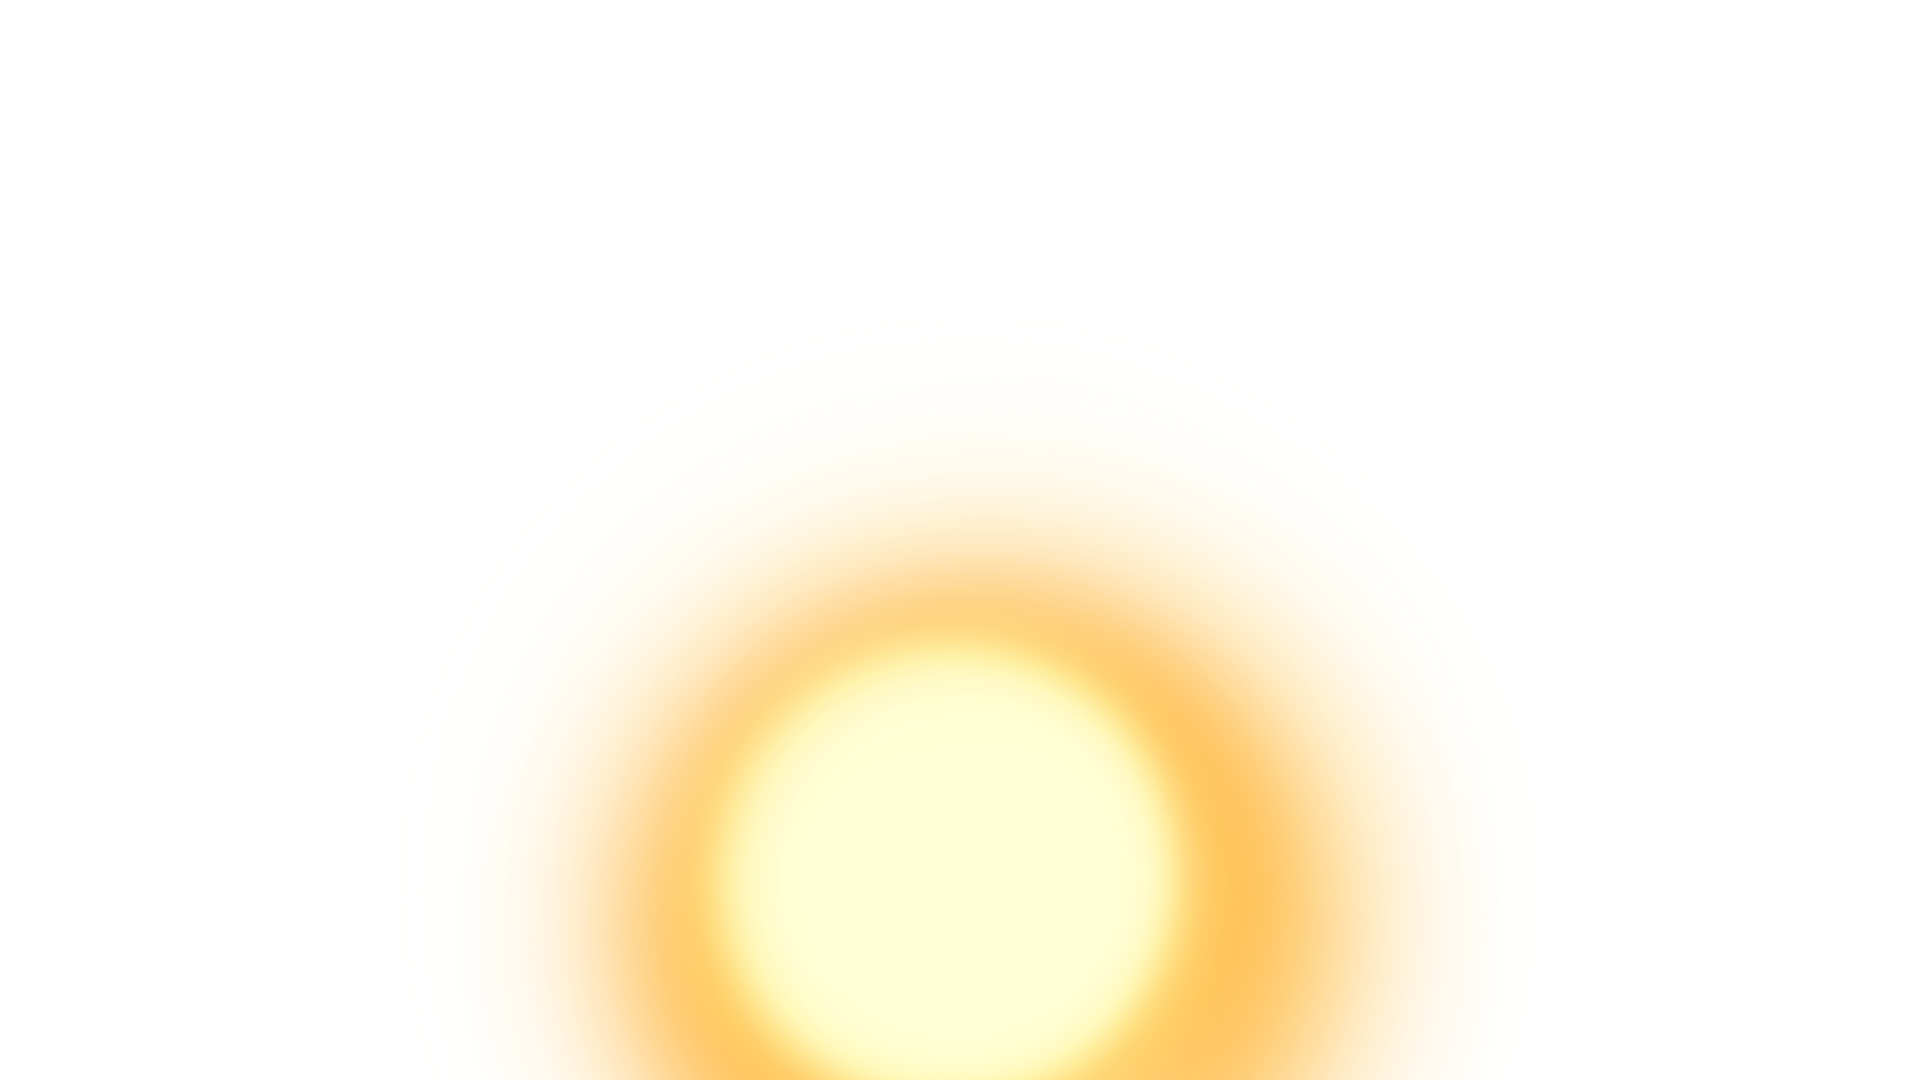
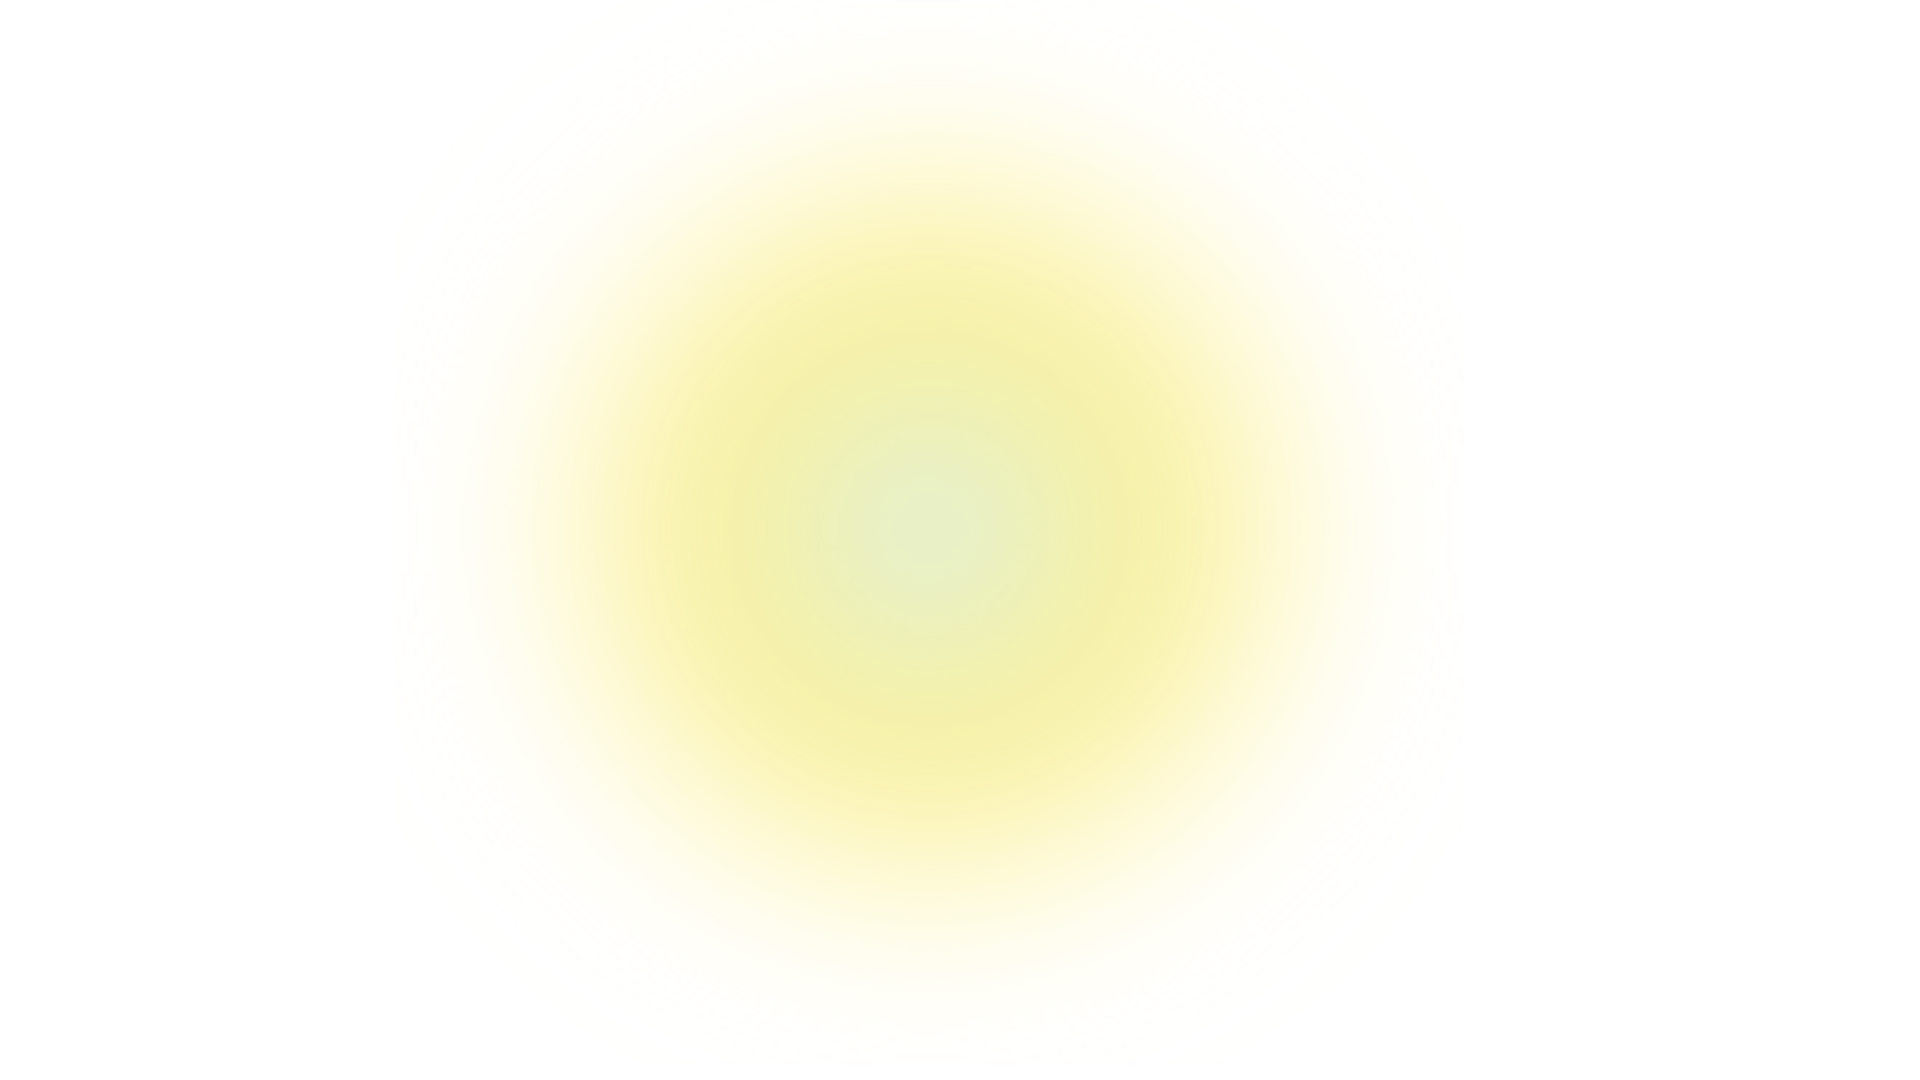
Fix the sol after two months

Changed region(s): [[0.25, 0.0917, 0.75, 1.0]]

diff --git a/src/components/Pages/Clases.tsx b/src/components/Pages/Clases.tsx
@@ -171,9 +171,9 @@ const Clases: React.FC = () => {
     () =>
       selectedNivel && selectedDias
         ? planes.find(
-            (p) =>
-              p.idnivel === selectedNivel && p.dias_por_semana === selectedDias
-          ) || null
+          (p) =>
+            p.idnivel === selectedNivel && p.dias_por_semana === selectedDias
+        ) || null
         : null,
     [planes, selectedNivel, selectedDias]
   );
@@ -188,8 +188,8 @@ const Clases: React.FC = () => {
   const costoPorClaseAprox =
     planSeleccionado && planSeleccionado.dias_por_semana > 0
       ? Math.round(
-          (totalMensual / (planSeleccionado.dias_por_semana * 4)) * 10
-        ) / 10
+        (totalMensual / (planSeleccionado.dias_por_semana * 4)) * 10
+      ) / 10
       : 0;
 
   /* ------------------------- UI ------------------------- */
@@ -431,7 +431,7 @@ const Clases: React.FC = () => {
                             <span className="underline">
                               {planesDelNivel.length > 0
                                 ? niveles.find((n) => n.id === selectedNivel)
-                                    ?.nombre
+                                  ?.nombre
                                 : "este nivel"}
                             </span>
                           </span>
@@ -550,7 +550,7 @@ const Clases: React.FC = () => {
                   return (
                     <Card
                       key={nivel.id}
-                      className="rounded-xl border border-border bg-card/90 shadow-sm transition-all duration-300 hover:-translate-y-1 hover:shadow-xl"
+                      className="rounded-xl border border-border bg-card/90 shadow-sm transition-all duration-300 hover:-translate-y-1 hover:shadow-xl hover:border-blue-300 hover:shadow-blue-100/50"
                     >
                       <CardHeader>
                         <CardTitle className="text-base font-semibold">

diff --git a/src/components/layout/CarouselDemo.tsx b/src/components/layout/CarouselDemo.tsx
@@ -75,9 +75,9 @@ export function PrettyCarousel({
     items && items.length
       ? items
       : Array.from({ length: 5 }).map((_, i) => ({
-          src: `https://picsum.photos/seed/shadcn-${i}/1600/900`,
-          alt: `Placeholder ${i + 1}`,
-        }));
+        src: `https://picsum.photos/seed/shadcn-${i}/1600/900`,
+        alt: `Placeholder ${i + 1}`,
+      }));
 
   const aspectClass = aspect === "square" ? "aspect-square" : "aspect-video";
 
@@ -153,8 +153,8 @@ export function PrettyCarousel({
               </CarouselContent>
 
               {/* Arrow controls */}
-              <CarouselPrevious className=" sm:flex -left-3 md:-left-6 h-10 w-10 rounded-full bg-white hover:bg-gray-100 shadow-md" />
-              <CarouselNext className="hidden sm:flex -right-3 md:-right-6 h-10 w-10 rounded-full bg-white hover:bg-gray-100 shadow-md" />
+              <CarouselPrevious className=" sm:flex -left-3 md:-left-6 h-10 w-10 rounded-full bg-white hover:bg-blue-50 hover:text-blue-600 hover:border-blue-200 shadow-md transition-colors" />
+              <CarouselNext className="hidden sm:flex -right-3 md:-right-6 h-10 w-10 rounded-full bg-white hover:bg-blue-50 hover:text-blue-600 hover:border-blue-200 shadow-md transition-colors" />
             </Carousel>
 
             {/* Dots */}
@@ -168,7 +168,7 @@ export function PrettyCarousel({
                     "h-2.5 w-2.5 rounded-full transition-al",
                     i === current
                       ? "w-6 bg-white"
-                      : "bg-white/40 hover:bg-primary/60"
+                      : "bg-white/40 hover:bg-blue-600"
                   )}
                 />
               ))}

diff --git a/src/components/Pages/Noticias.tsx b/src/components/Pages/Noticias.tsx
@@ -79,7 +79,7 @@ const Noticias = () => {
         </h2>
         <div className="grid grid-cols-1 md:grid-cols-2 lg:grid-cols-3 gap-6">
           {EXAMPLE_NEWS.map((news) => (
-            <Card key={news.id} className="hover:shadow-md transition-shadow">
+            <Card key={news.id} className="hover:shadow-xl hover:border-blue-300 hover:shadow-blue-100/50 transition-all duration-300 border border-transparent">
               <CardHeader>
                 <CardTitle className="flex items-center justify-between">
                   <span className="text-lg font-semibold">{news.title}</span>
@@ -87,8 +87,8 @@ const Noticias = () => {
                     {news.type === "gimnasia-artistica"
                       ? "Gimnasia Artística"
                       : news.type === "parkour"
-                      ? "Parkour"
-                      : "Crossfit"}
+                        ? "Parkour"
+                        : "Crossfit"}
                   </Badge>
                 </CardTitle>
                 <div className="flex items-center gap-2 text-sm text-gray-600">
@@ -118,7 +118,10 @@ const Noticias = () => {
             </Card>
           ))}
         </div>
-        <Button className="flex mx-auto my-6  bg-gray-800 hover:bg-gray-600 text-white font-medium">
+        <Button
+          variant="ghost"
+          className="flex mx-auto my-6 text-blue-600 hover:bg-blue-50 hover:text-blue-800 font-medium transition-all"
+        >
           Ver mas noticias
         </Button>
       </div>

diff --git a/src/components/Pages/NoticiasPublicas.tsx b/src/components/Pages/NoticiasPublicas.tsx
@@ -85,7 +85,7 @@ const NoticiasPublicas = () => {
             noticias.map((n) => (
               <Card
                 key={n.idnoticias}
-                className="shadow-lg hover:shadow-2xl border border-gray-200 rounded-xl overflow-hidden bg-white transition-transform hover:-translate-y-1"
+                className="shadow-lg hover:shadow-2xl hover:shadow-blue-100/50 hover:border-blue-300 border border-gray-200 rounded-xl overflow-hidden bg-white transition-all duration-300 hover:-translate-y-1"
               >
                 <CardHeader className="p-0">
                   <img
@@ -139,7 +139,7 @@ const NoticiasPublicas = () => {
             <Button
               disabled={page === 1}
               onClick={() => setPage(page - 1)}
-              className="bg-gray-800 text-white hover:bg-gray-700 rounded-lg"
+              className="bg-blue-900 text-white hover:bg-blue-700 rounded-lg shadow-md transition-colors"
             >
               Anterior
             </Button>
@@ -149,7 +149,7 @@ const NoticiasPublicas = () => {
             <Button
               disabled={page === totalPages}
               onClick={() => setPage(page + 1)}
-              className="bg-gray-800 text-white hover:bg-gray-700 rounded-lg"
+              className="bg-blue-900 text-white hover:bg-blue-700 rounded-lg shadow-md transition-colors"
             >
               Siguiente
             </Button>

diff --git a/src/components/Pages/Productos.tsx b/src/components/Pages/Productos.tsx
@@ -120,7 +120,7 @@ const Productos: React.FC = () => {
                 animate={{ opacity: 1, y: 0 }}
                 transition={{ delay: i * 0.05 }}
               >
-                <Card className="group rounded-xl overflow-hidden shadow-md hover:shadow-xl transition-all duration-300 border border-gray-100 bg-white">
+                <Card className="group rounded-xl overflow-hidden shadow-md hover:shadow-xl hover:border-blue-300 hover:shadow-blue-100/50 transition-all duration-300 border border-gray-100 bg-white">
                   <div className="relative overflow-hidden">
                     <img
                       src={producto.img}
@@ -145,11 +145,10 @@ const Productos: React.FC = () => {
                       {producto.descripcion2}
                     </p>
                     <p
-                      className={`font-semibold mb-3 ${
-                        producto.stock > 0
+                      className={`font-semibold mb-3 ${producto.stock > 0
                           ? "text-green-600"
                           : "text-red-500 italic"
-                      }`}
+                        }`}
                     >
                       {producto.stock > 0
                         ? `En stock: ${producto.stock}`

diff --git a/src/components/Pages/ArticulosCarousel.tsx b/src/components/Pages/ArticulosCarousel.tsx
@@ -129,7 +129,7 @@ export function ArticulosCarousel() {
                 }}
                 viewport={{ once: false, amount: 0.7 }}
               >
-                <Card className="overflow-hidden shadow-md hover:shadow-xl transition-all duration-300 border border-gray-100">
+                <Card className="overflow-hidden shadow-md hover:shadow-xl hover:shadow-blue-100/50 hover:border-blue-300 transition-all duration-300 border border-gray-100">
                   <CardContent className="p-0">
                     <motion.img
                       src={articulo.img}
@@ -151,8 +151,8 @@ export function ArticulosCarousel() {
                       </p>
                       <Link to="/productos">
                         <Button
-                          variant="outline"
-                          className="rounded-full text-blue-600 border-blue-500 hover:bg-blue-100 hover:text-blue-800"
+                          variant="ghost"
+                          className="rounded-full text-blue-600 hover:bg-blue-50 hover:text-blue-800 transition-colors duration-300"
                         >
                           Ver mas articulos
                         </Button>

diff --git a/src/components/layout/VideoGallery.tsx b/src/components/layout/VideoGallery.tsx
@@ -95,11 +95,11 @@ const VideoGallery = () => {
                             />
 
                             {/* Overlay Oscuro */}
-                            <div className="absolute inset-0 bg-black/30 transition-colors group-hover:bg-black/40" />
+                            <div className="absolute inset-0 bg-blue-900/20 transition-colors group-hover:bg-blue-900/40" />
 
                             {/* Botón Play */}
                             <div className="absolute inset-0 flex items-center justify-center">
-                                <div className="flex h-16 w-16 items-center justify-center rounded-full bg-white/20 backdrop-blur-sm transition-transform duration-300 group-hover:scale-110 group-hover:bg-white/30">
+                                <div className="flex h-16 w-16 items-center justify-center rounded-full bg-white/20 backdrop-blur-sm transition-transform duration-300 group-hover:scale-110 group-hover:bg-blue-600 group-hover:border-blue-400 border border-white/30">
                                     <Play className="h-8 w-8 fill-white text-white ml-1" />
                                 </div>
                             </div>

diff --git a/src/components/Pages/HomePublic.tsx b/src/components/Pages/HomePublic.tsx
@@ -130,7 +130,7 @@ const HomePublic = () => {
             se unen para crear tu mejor versión.
           </p>
           <Link to="/noticias">
-            <Button className="rounded-full bg-white px-8 py-3 text-lg font-semibold text-blue-900 shadow-md transition-transform hover:-translate-y-0.5 hover:bg-blue-50">
+            <Button className="rounded-full bg-white px-8 py-3 text-lg font-semibold text-blue-900 shadow-md transition-transform hover:-translate-y-0.5 hover:bg-blue-50 hover:text-blue-700">
               Ver Noticias y Eventos
             </Button>
           </Link>
@@ -208,8 +208,8 @@ const HomePublic = () => {
 
                   <Link to="/clases">
                     <Button
-                      variant="outline"
-                      className="rounded-full border-blue-200 text-blue-600 hover:bg-blue-50"
+                      variant="ghost"
+                      className="rounded-full text-blue-600 hover:bg-blue-50 hover:text-blue-700 transition-colors duration-300"
                     >
                       Ver más
                     </Button>

diff --git a/src/components/layout/SimpleParallax.tsx b/src/components/layout/SimpleParallax.tsx
@@ -16,11 +16,11 @@ const SimpleParallax = () => {
   // Capas con diferentes velocidades
   const yFondo = useTransform(scrollYProgress, [0, 1], ["0%", "-22%"]);
   const yArbol = useTransform(scrollYProgress, [0, 1], ["0%", "-28%"]);
-  const ySol = useTransform(scrollYProgress, [0, 1], ["5%", "-130%"]);
+  const ySol = useTransform(scrollYProgress, [0, 1], ["40%", "-130%"]);
   const yAtleta = useTransform(scrollYProgress, [0, 1], ["5%", "-70%"]);
   const yPasto = useTransform(scrollYProgress, [0, 1], ["0%", "-22%"]);
 
-  // ✨ Movimiento del texto (ligero hacia arriba)
+  // Movimiento del texto (ligero hacia arriba)
   const yTexto = useTransform(scrollYProgress, [0, 1], ["0%", "-45%"]);
   const opacityTexto = useTransform(scrollYProgress, [0, 0.8], [1, 0]);
 
@@ -50,7 +50,7 @@ const SimpleParallax = () => {
           <img
             src="/img/sol.png"
             alt="Sol"
-            className="w-full h-full object-cover pointer-events-none"
+            className="w-full object-cover pointer-events-none"
           />
         </motion.div>
 

diff --git a/src/components/layout/ImageGallery.tsx b/src/components/layout/ImageGallery.tsx
@@ -47,7 +47,7 @@ const ImageGallery = ({ images = defaultImages }: { images?: string[] }) => {
                                 className="w-full h-auto object-cover transform transition-transform duration-500 group-hover:scale-110"
                                 loading="lazy"
                             />
-                            <div className="absolute inset-0 bg-gradient-to-t from-blue-900/60 to-transparent opacity-0 group-hover:opacity-100 transition-opacity duration-300 flex items-end p-6">
+                            <div className="absolute inset-0 bg-gradient-to-t from-blue-900/80 via-blue-900/20 to-transparent opacity-0 group-hover:opacity-100 transition-opacity duration-300 flex items-end p-6">
                                 <p className="text-white font-medium translate-y-4 group-hover:translate-y-0 transition-transform duration-300">
                                     Gym Serra Momentos
                                 </p>

diff --git a/src/components/Pages/Nosotros.tsx b/src/components/Pages/Nosotros.tsx
@@ -193,8 +193,10 @@ const Nosotros = () => {
                 key={index}
                 className="bg-white rounded-xl shadow-sm hover:shadow-xl transition-all duration-300 p-8 border border-gray-100 flex flex-col items-center text-center group"
               >
-                <div className="mb-5 bg-blue-50 p-4 rounded-full group-hover:bg-blue-100 transition-colors">
-                  {valor.icono}
+                <div className="mb-5 bg-blue-50 p-4 rounded-full group-hover:bg-blue-600 group-hover:text-white transition-colors duration-300">
+                  <div className="text-blue-600 group-hover:text-white transition-colors duration-300">
+                    {valor.icono}
+                  </div>
                 </div>
                 <h4 className="text-xl font-bold text-gray-900 mb-3">
                   {valor.titulo}

diff --git a/src/components/layout/menu/SubmenuItems.tsx b/src/components/layout/menu/SubmenuItems.tsx
@@ -18,7 +18,7 @@ const SubmenuItems = ({ data, paths, className }: Props) => {
       {data.map((item, index) => (
         <li
           key={index}
-          className="hover:bg-gray-700 rounded-md transition-colors"
+          className="hover:bg-blue-400 rounded-md transition-colors"
         >
           <Link
             to={paths[index]}
